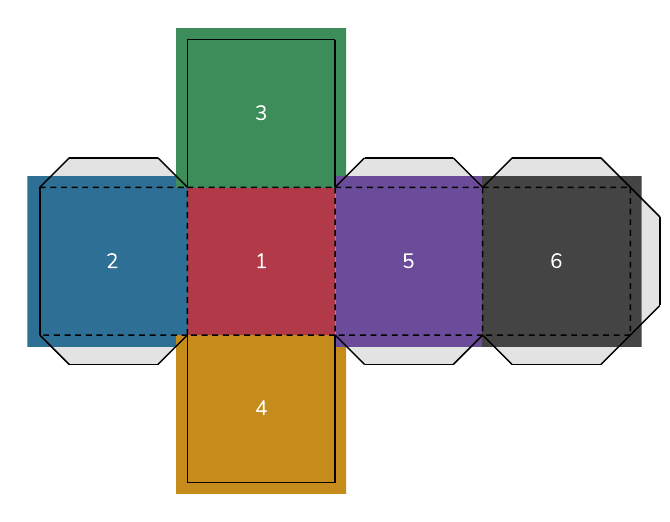
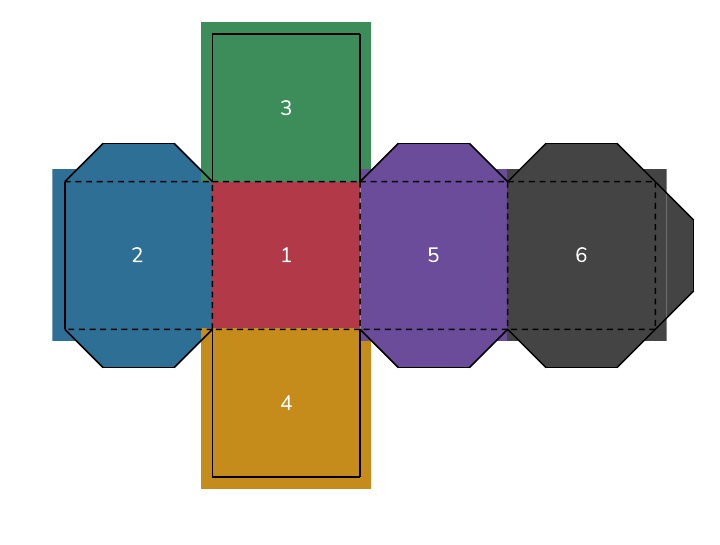
Dice to fold: tabs in the color of their face, deeper tabs, Tabs depth
Each glue tab shows its face mirrored across the fold, clipped to the tab
shape and slightly under the face so no white seam shows. Automatic depth
is a quarter of the side, 5 to 10 mm; the new Tabs field (tabDepth) sets
it up to 20 mm.

Claude-Session: https://claude.ai/code/session_01QmKvjz41fZGp884zhDuNAQ

diff --git a/src/shared/exportPlan.ts b/src/shared/exportPlan.ts
@@ -384,12 +384,21 @@ const NET_COLS = 4
 const NET_ROWS = 3
 /** Spazio minimo tra due sviluppi, in mm */
 const NET_GAP = 2
-/** Colore delle linguette */
+/** Colore sotto le linguette, dove la faccia è trasparente */
 export const NET_TAB_FILL = '#E3E3E3'
+/** Quanto la linguetta entra sotto la sua faccia, in mm */
+const NET_TAB_OVERLAP = 0.2
+/** Linguetta più grande che si può chiedere, in mm */
+export const NET_TAB_MAX = 20
 
-/** Profondità delle linguette di un dado con lato s, in mm */
-export function netTabDepth(s: number): number {
-  return Math.round(Math.min(8, Math.max(3, s * 0.2)) * 2) / 2
+/**
+ * Profondità delle linguette di un dado con lato s, in mm: quella chiesta (tab, tra 2 e
+ * NET_TAB_MAX), o un quarto del lato, tra 5 e 10 mm, perché anche un dado piccolo abbia
+ * linguette da tenere tra le dita
+ */
+export function netTabDepth(s: number, tab = 0): number {
+  if (tab > 0) return Math.min(NET_TAB_MAX, Math.max(2, tab))
+  return Math.round(Math.min(10, Math.max(5, s * 0.25)) * 2) / 2
 }
 
 /** Faccia vicina sul lato indicato, se c'è */
@@ -417,6 +426,8 @@ export interface DieNet {
   width: number
   height: number
   items: SceneItem[]
+  /** Le facce specchiate sulle linguette, ritagliate sulla loro forma: da disegnare per prime */
+  tabs: SceneItem[]
   shapes: SceneShape[]
   /** Contorno da tagliare */
   cut: SceneLine[]
@@ -426,11 +437,12 @@ export interface DieNet {
 
 /**
  * Lo sviluppo di un dado a sei facce, con l'angolo in alto a sinistra in (x, y). Con l'abbondanza
- * ogni faccia la tiene solo sui lati esterni, dove continua anche sotto le linguette
+ * ogni faccia la tiene solo sui lati esterni. Ogni linguetta prende il colore della faccia da cui
+ * parte: è la faccia specchiata sul lato della piega, quindi il colore continua oltre lo spigolo
  */
-export function dieNet(faces: Template[], bleed: boolean, x = 0, y = 0): DieNet {
+export function dieNet(faces: Template[], bleed: boolean, tab = 0, x = 0, y = 0): DieNet {
   const s = faces[0].width
-  const d = netTabDepth(s)
+  const d = netTabDepth(s, tab)
   const b = bleed ? Math.max(0, ...faces.map((t) => t.bleed)) : 0
   const pad = Math.max(d, b)
   const inset = Math.min(d, s * 0.3)
@@ -450,6 +462,7 @@ export function dieNet(faces: Template[], bleed: boolean, x = 0, y = 0): DieNet 
     }
   })
   const shapes: SceneShape[] = []
+  const tabs: SceneItem[] = []
   const cut: SceneLine[] = []
   const folds: SceneLine[] = []
   const line = (a: [number, number], z: [number, number], dash?: boolean): SceneLine => ({
@@ -477,7 +490,21 @@ export function dieNet(faces: Template[], bleed: boolean, x = 0, y = 0): DieNet 
       const t: [number, number] = [(q[0] - p[0]) / s, (q[1] - p[1]) / s]
       const p2: [number, number] = [p[0] + n[0] * d + t[0] * inset, p[1] + n[1] * d + t[1] * inset]
       const q2: [number, number] = [q[0] + n[0] * d - t[0] * inset, q[1] + n[1] * d - t[1] * inset]
-      shapes.push({ points: [p, q, q2, p2], fill: NET_TAB_FILL })
+      const points: [number, number][] = [p, q, q2, p2]
+      shapes.push({ points, fill: NET_TAB_FILL })
+      // la faccia specchiata entra un poco sotto la faccia vera: senza, lungo la piega resta
+      // una riga bianca sottile dove i due bordi sfumati si incontrano
+      const o = NET_TAB_OVERLAP
+      const under = (v: [number, number]): [number, number] => [v[0] - n[0] * o, v[1] - n[1] * o]
+      tabs.push({
+        x: fx + n[0] * (s - o),
+        y: fy + n[1] * (s - o),
+        template: faces[k],
+        side: 'front',
+        mode: 'cut',
+        flip: n[0] ? 'x' : 'y',
+        clip: [under(p), under(q), q2, p2]
+      })
       folds.push(line(p, q, true))
       cut.push(line(p, p2), line(p2, q2), line(q2, q))
     }
@@ -486,6 +513,7 @@ export function dieNet(faces: Template[], bleed: boolean, x = 0, y = 0): DieNet 
     width: NET_COLS * s + 2 * pad,
     height: NET_ROWS * s + 2 * pad,
     items,
+    tabs,
     shapes,
     cut,
     folds
@@ -498,7 +526,7 @@ export function netGrid(
   face: Template
 ): { cols: number; rows: number; fits: boolean; gap: number } {
   const page = pageSize(o)
-  const net = dieNet(Array(6).fill(face), o.bleed)
+  const net = dieNet(Array(6).fill(face), o.bleed, o.tabDepth)
   const gap = Math.max(NET_GAP, o.spacing)
   const fit = (avail: number, cell: number): number =>
     Math.floor((avail + gap + 1e-6) / (cell + gap))
@@ -528,7 +556,7 @@ function netPages(
     for (let n = 0; n < count; n++) dice.push(faces)
   }
   if (!dice.length || o.sides === 'back') return { pages: [], overflow: false, padded }
-  const probe = dieNet(dice[0], o.bleed)
+  const probe = dieNet(dice[0], o.bleed, o.tabDepth)
   const { cols, rows, fits, gap } = netGrid(o, dice[0][0])
   const x0 = (page.width - (cols * probe.width + (cols - 1) * gap)) / 2
   const y0 = (page.height - (rows * probe.height + (rows - 1) * gap)) / 2
@@ -541,6 +569,7 @@ function netPages(
         dieNet(
           faces,
           o.bleed,
+          o.tabDepth,
           x0 + (k % cols) * (probe.width + gap),
           y0 + Math.floor(k / cols) * (probe.height + gap)
         )
@@ -550,7 +579,7 @@ function netPages(
       page: {
         width: page.width,
         height: page.height,
-        items: nets.flatMap((n) => n.items),
+        items: nets.flatMap((n) => [...n.tabs, ...n.items]),
         shapes: nets.flatMap((n) => n.shapes),
         lines: marks ? nets.flatMap((n) => [...n.cut, ...n.folds]) : [],
         linesOver: true

diff --git a/src/shared/__tests__/exportPlan.test.ts b/src/shared/__tests__/exportPlan.test.ts
@@ -292,7 +292,11 @@ describe('casi limite', () => {
     it('croce di sei facce con le opposte che fanno 7, sette linguette e cinque pieghe interne', () => {
       const net = dieNet(Array(6).fill(face), false)
       const d = netTabDepth(20)
-      expect(d).toBe(4)
+      expect(d).toBe(5)
+      // un dado piccolo ha comunque linguette da 5 mm; si possono chiedere più grandi
+      expect(netTabDepth(12)).toBe(5)
+      expect(netTabDepth(12, 8)).toBe(8)
+      expect(netTabDepth(12, 50)).toBe(20)
       expect([net.width, net.height]).toEqual([80 + 2 * d, 60 + 2 * d])
       const at = net.items.map((it) => [(it.x - d) / 20, (it.y - d) / 20])
       // 1 al centro, 6 dall'altra parte della fila; 2 e 5 ai lati; 3 sopra e 4 sotto
@@ -305,6 +309,13 @@ describe('casi limite', () => {
         [3, 1]
       ])
       expect(net.shapes).toHaveLength(7)
+      // le linguette sono la faccia da cui partono, specchiata e ritagliata sulla loro forma
+      expect(net.tabs).toHaveLength(7)
+      expect(net.tabs[0]).toMatchObject({ x: d, flip: 'y', template: face })
+      expect(net.tabs[0].y).toBeCloseTo(d + 0.2)
+      expect(net.tabs[0].clip?.slice(2)).toEqual(net.shapes[0].points.slice(2))
+      const right = net.tabs.find((t) => t.flip === 'x')
+      expect([right?.x, right?.y]).toEqual([d + 80 - 0.2, d + 20])
       expect(net.folds.filter((l) => l.dash)).toHaveLength(5 + 7)
       // il contorno: 7 lati senza linguetta e 3 tratti per linguetta
       expect(net.cut).toHaveLength(7 + 7 * 3)
@@ -324,7 +335,7 @@ describe('casi limite', () => {
       const o = { ...DEFAULT_PDF, dice: 'net' as const, copies: true }
       const plan = planPdf(o, dice(cards), 'gioco')
       const page = plan.docs[0].pages[0]
-      expect(page.items).toHaveLength(12)
+      expect(page.items).toHaveLength(12 + 14)
       expect(page.shapes).toHaveLength(14)
       expect(page.lines.length).toBeGreaterThan(0)
       expect(page.linesOver).toBe(true)
@@ -341,13 +352,13 @@ describe('casi limite', () => {
       expect(odd.docs[0].pages[0].shapes).toBeUndefined()
       const short = planPdf(o, dice([die(1), die(2)]), 'g')
       expect(short.notes[0].key).toBe('export.ttsDicePadded')
-      expect(short.docs[0].pages[0].items).toHaveLength(6)
+      expect(short.docs[0].pages[0].items).toHaveLength(6 + 7)
     })
 
     it('PDF: con il fronte-retro ogni pagina di dadi ha una pagina vuota dietro', () => {
       const cards = Array.from({ length: 6 }, (_, i) => die(i + 1))
       const plan = planPdf({ ...DEFAULT_PDF, dice: 'net', duplex: 'long' }, dice(cards), 'g')
-      expect(plan.docs[0].pages.map((p) => p.items.length)).toEqual([6, 0])
+      expect(plan.docs[0].pages.map((p) => p.items.length)).toEqual([6 + 7, 0])
     })
 
     it('con le facce separate i dadi restano come prima', () => {

diff --git a/src/renderer/src/export/ExportDialog.tsx b/src/renderer/src/export/ExportDialog.tsx
@@ -1,7 +1,7 @@
 import { useEffect, useMemo, useState } from 'react'
 import NumInput from '../components/NumInput'
 import type { LoadedProject } from '../../../shared/project'
-import { netGrid } from '../../../shared/exportPlan'
+import { NET_TAB_MAX, netGrid, netTabDepth } from '../../../shared/exportPlan'
 import { kindOf } from '../../../shared/model/template'
 import { walkLayers } from '../../../shared/model/normalize'
 import {
@@ -183,6 +183,14 @@ export default function ExportDialog({
 
   /** Almeno un set scelto è fatto di facce di dado: si sceglie come stamparle */
   const hasDice = selected.some((name) => componentKind(name) === 'die')
+  /** La faccia del primo set di dadi scelto, per la misura delle linguette */
+  const dieFace = useMemo(() => {
+    const set = project.sets.find(
+      (s) => selected.includes(s.name) && componentKind(s.name) === 'die'
+    )
+    return project.templates.find((x) => x.name === set?.template) ?? null
+    // eslint-disable-next-line react-hooks/exhaustive-deps
+  }, [project, selected])
   const firstTemplate = useMemo(() => {
     const set = project.sets.find((s) => selected.includes(s.name))
     return project.templates.find((x) => x.name === set?.template) ?? null
@@ -574,6 +582,16 @@ export default function ExportDialog({
             }
           ]}
         />
+      )}
+      {hasDice && pdf.dice === 'net' && (
+        <Row
+          label={t('export.tabDepth')}
+          hint={t('export.tabDepthHint', {
+            v: len(netTabDepth(dieFace?.width ?? 20, pdf.tabDepth))
+          })}
+        >
+          {mm(pdf.tabDepth, (tabDepth) => patch({ tabDepth: Math.min(NET_TAB_MAX, tabDepth) }))}
+        </Row>
       )}
       <Section
         id="pdf-layout"

diff --git a/src/renderer/src/render/SceneView.tsx b/src/renderer/src/render/SceneView.tsx
@@ -97,6 +97,27 @@ export default function ScenePageView({
               guides={false}
             />
           )
+          if (it.clip) {
+            // una linguetta: la faccia specchiata, solo dentro la sua forma
+            const pts = it.clip
+              .map(([x, y]) => `${(x - c.x) * s.scale}px ${(y - c.y) * s.scale}px`)
+              .join(', ')
+            const flip = it.flip === 'x' ? 'scaleX(-1)' : it.flip === 'y' ? 'scaleY(-1)' : undefined
+            return (
+              <div key={i} style={{ position: 'absolute', inset: 0, clipPath: `polygon(${pts})` }}>
+                <div
+                  style={{
+                    position: 'absolute',
+                    left: (it.x - c.x) * s.scale,
+                    top: (it.y - c.y) * s.scale,
+                    transform: flip
+                  }}
+                >
+                  {card}
+                </div>
+              </div>
+            )
+          }
           const crop = it.crop
           const ct = crop?.t ?? 0
           const cb = crop?.b ?? 0

diff --git a/src/shared/export.ts b/src/shared/export.ts
@@ -82,6 +82,8 @@ export interface PdfOptions extends CommonOptions {
    * ritagliare, piegare e incollare, con le linguette (net)
    */
   dice: DiceLayout
+  /** Profondità delle linguette dei dadi da piegare, in mm; 0 la sceglie dal lato del dado */
+  tabDepth: number
 }
 
 export type DiceLayout = 'faces' | 'net'
@@ -219,7 +221,8 @@ export const DEFAULT_PDF: PdfOptions = {
   proof: false,
   cmyk: false,
   continuous: false,
-  dice: 'faces'
+  dice: 'faces',
+  tabDepth: 0
 }
 
 export const DEFAULT_TTS: TtsOptions = {
@@ -315,6 +318,10 @@ export interface SceneItem {
   crop?: { l: number; r: number; t?: number; b?: number }
   /** Ingrandimento della carta: minore di 1 nei fogli di prova */
   zoom?: number
+  /** Carta specchiata: x scambia destra e sinistra, y alto e basso (le linguette dei dadi) */
+  flip?: 'x' | 'y'
+  /** Solo la parte dentro questo poligono, in mm sulla pagina */
+  clip?: [number, number][]
 }
 
 export interface SceneLine {

diff --git a/src/renderer/src/i18n/it.ts b/src/renderer/src/i18n/it.ts
@@ -1456,6 +1456,8 @@ export const it: Record<MessageKey, string> = {
   'export.diceNet': 'Da piegare',
   'export.diceNetNote':
     'Il cubo aperto con le linguette da incollare. Linee di taglio e pieghe solo con i segni di taglio.',
+  'export.tabDepth': 'Linguette',
+  'export.tabDepthHint': 'Profondità delle linguette; 0 la sceglie dal lato del dado. Adesso: {v}.',
   'export.dieNotSquare':
     'Set «{set}»: le facce non sono quadrate, quindi i dadi escono come facce separate.',
   'export.markColor': 'Colore dei segni di taglio',

diff --git a/src/renderer/src/i18n/en.ts b/src/renderer/src/i18n/en.ts
@@ -1430,6 +1430,8 @@ export const en = {
   'export.diceNet': 'To fold',
   'export.diceNetNote':
     'The unfolded cube with tabs to glue. Cut and fold lines only with crop marks.',
+  'export.tabDepth': 'Tabs',
+  'export.tabDepthHint': 'Depth of the glue tabs; 0 picks it from the size of the die. Now: {v}.',
   'export.dieNotSquare':
     'Set “{set}”: the faces are not square, so the dice come out as separate faces.',
   'export.markColor': 'Color of the crop marks',

diff --git a/skill/stella/SKILL.md b/skill/stella/SKILL.md
@@ -107,7 +107,7 @@ Older projects have `naibi.json` or `gamecreator.json` instead of `stella.json`;
 - `sets[].sheet` is optional (default: the set's name). Several sets may name the same sheet: they share its rows and each draws them with its own template; `rename-set` then keeps the sheet's name. `sets[].hiddenColumns` (columns hidden in the app's table) and `sets[].showComputed` (also show fixed and formula layers, read only) and `sets[].pinnedProperties` (`layer.property` columns pinned in the card form) and `sets[].colors` (table colors: `{ "columns": [{ "column": "faction", "colors": { "Red": "#fbe0e0" } }], "wholeRow": true }`; number keys are `=n` or bands `b0`-`b2`) are view preferences only; they never change the cards. A set's template is `templates/<template>.json`.
 - `styles`: name → markup attributes. `heading1`, `heading2` and `note` always exist and can be redefined.
 - `variables`: `image` (`src` file name; optional `tint`, `scale` (height relative to the line, 1 = normal), `raise` (% of the line), `rotate` (degrees), `flip` (`h`, `v`, `hv`), `opacity` 0-1, `bg` (a background behind the image everywhere the variable is used: `circle`, `square`, `rounded`, `hexagon`, `diamond`, a file or another image variable), `bgColor`, `bgPad` (space around the image, fraction of the side, default 0.18); e.g. `"water": { "type": "image", "src": "drop", "tint": "white", "bg": "circle", "bgColor": "#C0392B" }` is a white drop in a red circle), `text` (markup that replaces `{name}`), `color` (usable by name in every colour property, which also accepts `{field}` to take a card field such as a value layer; redefining a CSS colour name such as `red` changes it everywhere), `value` (constant text or number, also usable in formulas).
-- `export` holds the options of the last export of each kind the named profiles (`export.named`) and the kind of the last export (`export.last`, used by Repeat the last export), written by the app; `order` holds the sidebar order. Leave existing ones alone unless asked; when the user asks for an export and the project has no fitting profile (`info` lists them), add one to `export.named` and run it with `export --profile`. A profile is `{ "name": "Print", "kind": "pdf" | "images" | "tts", "options": { ... } }`; options left out take the app's defaults, so `{}` is a valid start. Useful options: all kinds `sets` (set names, empty = all), `copies` (true = repeat cards by `amount`; default true for PDF and TTS, false for images); PDF `page` (`A4`, `A3`, `Letter`), `landscape`, `margin` (mm, 10), `bleed` (false), `marks` (`corners`, `lines`, `none`), `sides` (`front`, `back`, `both`), `duplex` (`none`, `long`, `short`: backs on alternate pages, mirrored), `split` (`single`, `set`, `side`), `dice` (`faces` or `net`: die sets as a foldable cross with glue tabs, square faces only; cut and fold lines only with `marks`); images `format` (`png`, `jpg`, `webp`, `svg`), `dpi` (300), `bleed`, `sides`, `pattern` (file names, `%set/%n`); TTS `destination` (`project` = `export/tts/`, `tts` = Tabletop Simulator's Saved Objects folder, `both`, the default), `objects` (below). PDF and image files go to `export/` unless `folder` is set. In Tabletop Simulator options (`export.tts` or a named profile of kind `tts`), `objects` maps a set name to what it becomes: `{ "type": "card" | "token" | "standee" | "tile" | "board" | "die", "thickness": 2, "edgeColor": "#FFFFFF", "tags": "enemy, card" }` (`tags`: Tabletop Simulator tags of the set's components, `{field}` allowed, replacing the template's `ttsTags`; leave it out to use the template's; thickness in mm, default 2, 10 for standees; edge color for tiles and boards; `die` makes one six-sided die from every six cards, card 1 on face 1, and wants a square template); a set not listed takes the `kind` of its template (no `kind`: a deck of cards).
+- `export` holds the options of the last export of each kind the named profiles (`export.named`) and the kind of the last export (`export.last`, used by Repeat the last export), written by the app; `order` holds the sidebar order. Leave existing ones alone unless asked; when the user asks for an export and the project has no fitting profile (`info` lists them), add one to `export.named` and run it with `export --profile`. A profile is `{ "name": "Print", "kind": "pdf" | "images" | "tts", "options": { ... } }`; options left out take the app's defaults, so `{}` is a valid start. Useful options: all kinds `sets` (set names, empty = all), `copies` (true = repeat cards by `amount`; default true for PDF and TTS, false for images); PDF `page` (`A4`, `A3`, `Letter`), `landscape`, `margin` (mm, 10), `bleed` (false), `marks` (`corners`, `lines`, `none`), `sides` (`front`, `back`, `both`), `duplex` (`none`, `long`, `short`: backs on alternate pages, mirrored), `split` (`single`, `set`, `side`), `dice` (`faces` or `net`: die sets as a foldable cross with glue tabs, square faces only; cut and fold lines only with `marks`; `tabDepth` mm, 0 = automatic); images `format` (`png`, `jpg`, `webp`, `svg`), `dpi` (300), `bleed`, `sides`, `pattern` (file names, `%set/%n`); TTS `destination` (`project` = `export/tts/`, `tts` = Tabletop Simulator's Saved Objects folder, `both`, the default), `objects` (below). PDF and image files go to `export/` unless `folder` is set. In Tabletop Simulator options (`export.tts` or a named profile of kind `tts`), `objects` maps a set name to what it becomes: `{ "type": "card" | "token" | "standee" | "tile" | "board" | "die", "thickness": 2, "edgeColor": "#FFFFFF", "tags": "enemy, card" }` (`tags`: Tabletop Simulator tags of the set's components, `{field}` allowed, replacing the template's `ttsTags`; leave it out to use the template's; thickness in mm, default 2, 10 for standees; edge color for tiles and boards; `die` makes one six-sided die from every six cards, card 1 on face 1, and wants a square template); a set not listed takes the `kind` of its template (no `kind`: a deck of cards).
 
 ## Data sheets
 

diff --git a/docs/guida/README.md b/docs/guida/README.md
@@ -753,7 +753,7 @@ Il PDF è vettoriale, con i font incorporati. Tra le scelte che contano ci sono 
 - **Rotazione**: ruota le carte se altrimenti non entrano o ne entrano di più.
 - **Poster**: divide su più pagine le carte più grandi della pagina, con una sovrapposizione.
 - **Piegatura**: fronte e retro affiancati, da piegare.
-- **Dadi**: compare quando si esporta un set di facce di dado. **Facce** le mette una accanto all'altra come le carte; **Da piegare** stampa ogni dado aperto a croce, da ritagliare, piegare e incollare. Ogni sei righe del set fanno un dado, nell'ordine del foglio: la faccia 1 al centro, la 6 in fondo alla fila, la 2 e la 5 ai lati, la 3 sopra e la 4 sotto, così le facce opposte fanno 7. Le linguette grigie stanno sui sette lati da incollare; le facce 3 e 4 non ne hanno e chiudono il dado. Il dado è grande quanto il template (una faccia di 20 mm fa un dado di 20 mm), e la faccia deve essere quadrata. Le linee di taglio e le pieghe tratteggiate ci sono solo con i segni di taglio, nel loro colore e spessore. Con l'abbondanza ogni faccia la tiene sui lati esterni, dove il colore continua anche sotto le linguette. Gli sviluppi non si ruotano: con dadi grandi una pagina orizzontale ne contiene di più.
+- **Dadi**: compare quando si esporta un set di facce di dado. **Facce** le mette una accanto all'altra come le carte; **Da piegare** stampa ogni dado aperto a croce, da ritagliare, piegare e incollare. Ogni sei righe del set fanno un dado, nell'ordine del foglio: la faccia 1 al centro, la 6 in fondo alla fila, la 2 e la 5 ai lati, la 3 sopra e la 4 sotto, così le facce opposte fanno 7. Le linguette stanno sui sette lati da incollare, ognuna del colore della faccia da cui parte (è la faccia vista allo specchio, quindi il colore continua oltre la piega); le facce 3 e 4 non ne hanno e chiudono il dado. Le linguette sono profonde un quarto del lato, tra 5 e 10 mm, così anche un dado piccolo si incolla con le dita; **Linguette** ne sceglie un'altra misura, fino a 20 mm (0 torna a quella automatica). Il dado è grande quanto il template (una faccia di 20 mm fa un dado di 20 mm), e la faccia deve essere quadrata. Le linee di taglio e le pieghe tratteggiate ci sono solo con i segni di taglio, nel loro colore e spessore. Senza segni di taglio la piega tra una faccia e la sua linguetta non si vede: si piega lungo il lato del quadrato. Con l'abbondanza ogni faccia la tiene sui lati esterni. Gli sviluppi non si ruotano: con dadi grandi una pagina orizzontale ne contiene di più.
 - **Segni di taglio**: agli angoli o a linee intere, con lunghezza, spessore e colore.
 - **Fronte-retro**: retri su pagine alternate, girando il foglio sul lato lungo o corto, con una correzione dello spostamento per le stampanti che non allineano i due lati. Per trovare la correzione giusta stampa prima una pagina sola, misura di quanto il retro è spostato rispetto al fronte guardando il foglio controluce e scrivi quel valore in **Spostamento retri**; poi stampa tutto. Il **Foglio di prova** serve a controllare le carte in piccolo prima di consumare carta.
 - **Pagine**: con **Uno dopo l'altro sulla stessa pagina** un set comincia subito dopo il precedente invece che su una pagina nuova (10 + 8 carte con 9 per pagina stanno in 2 pagine invece di 3). Un set con carte di un'altra misura comincia su una riga nuova, se nella pagina c'è posto. Le carte partono dall'alto della pagina, anche quando non la riempiono, così il taglio comincia sempre dallo stesso bordo.

diff --git a/docs/specifica.md b/docs/specifica.md
@@ -444,7 +444,7 @@ Il poster vale con la disposizione automatica: una carta che non entra nella pag
 
 Con la piegatura ogni carta occupa una cella larga il doppio, con il fronte a sinistra e il retro a destra, entrambi dritti: piegando lungo i trattini (sopra e sotto la coppia) il retro finisce dietro il fronte. Con l'abbondanza la coppia la ha solo all'esterno; senza, le carte sono rettangoli di taglio. Fronte-retro, scelta dei lati, rotazione e poster non valgono.
 
-Con **Dadi: Da piegare** (`dice: "net"`) i set il cui template è una faccia di dado escono come sviluppi a croce: ogni sei carte un dado (le ultime ripetono le prime se non sono un multiplo di sei), con le copie della prima carta del gruppo, come in Tabletop Simulator. Faccia 1 al centro, 2 a sinistra, 5 e 6 a destra, 3 sopra e 4 sotto. Sette linguette grigie a trapezio (profonde un quinto del lato, tra 3 e 8 mm) stanno sui lati sopra e sotto delle facce 2, 5 e 6 e a destra della 6. Con i segni di taglio (di qualsiasi tipo) il contorno è una linea continua e le pieghe tratteggiate, sempre sopra le facce; senza, nessuna linea. Con l'abbondanza ogni faccia la tiene sui lati esterni. Gli sviluppi si centrano nella pagina con almeno 2 mm (o la spaziatura) tra l'uno e l'altro, non si ruotano, non si uniscono ad altri set e non hanno retro: con il fronte-retro ogni pagina è seguita da una pagina vuota. Una faccia non quadrata torna alle facce affiancate, con un avviso.
+Con **Dadi: Da piegare** (`dice: "net"`) i set il cui template è una faccia di dado escono come sviluppi a croce: ogni sei carte un dado (le ultime ripetono le prime se non sono un multiplo di sei), con le copie della prima carta del gruppo, come in Tabletop Simulator. Faccia 1 al centro, 2 a sinistra, 5 e 6 a destra, 3 sopra e 4 sotto. Sette linguette a trapezio (profonde un quarto del lato, tra 5 e 10 mm, o `tabDepth` mm fino a 20) con la faccia da cui partono specchiata sul lato della piega, sopra un fondo grigio per le facce trasparenti, stanno sui lati sopra e sotto delle facce 2, 5 e 6 e a destra della 6. Con i segni di taglio (di qualsiasi tipo) il contorno è una linea continua e le pieghe tratteggiate, sempre sopra le facce; senza, nessuna linea. Con l'abbondanza ogni faccia la tiene sui lati esterni. Gli sviluppi si centrano nella pagina con almeno 2 mm (o la spaziatura) tra l'uno e l'altro, non si ruotano, non si uniscono ad altri set e non hanno retro: con il fronte-retro ogni pagina è seguita da una pagina vuota. Una faccia non quadrata torna alle facce affiancate, con un avviso.
 
 Con **Uno dopo l'altro sulla stessa pagina** (`continuous`) i set vicini nel PDF non cominciano su una pagina nuova. Set con la stessa griglia (stessa misura della carta, stessa rotazione) diventano una sola sequenza di carte: 10 + 8 carte con 9 per pagina stanno in 2 pagine invece di 3. Un set con un'altra griglia comincia su una riga nuova sotto il precedente, se nella pagina c'è posto in altezza; ogni set tiene le sue colonne, la sua rotazione e la sua centratura orizzontale, le righe della pagina si centrano in verticale e tra un set e l'altro resta lo spazio dei segni di taglio. Con i segni a linee intere le linee verticali restano all'altezza del loro set, perché non attraversino gli altri: si taglia prima tra un set e l'altro. I set divisi a poster restano su pagine loro; nella piegatura si uniscono solo set con la stessa griglia. Con un file per set l'opzione non vale.
 

diff --git a/docs/guide/README.md b/docs/guide/README.md
@@ -753,7 +753,7 @@ The PDF is vector, with embedded fonts. The choices that matter are the paper (p
 - **Rotation**: rotates cards when they would not fit otherwise or more of them fit.
 - **Poster**: splits cards larger than the page over several pages, with an overlap.
 - **Fold**: front and back side by side, to fold.
-- **Dice**: shows up when you export a set of die faces. **Faces** places them side by side like cards; **To fold** prints each die opened out as a cross, to cut, fold and glue. Every six rows of the set make one die, in sheet order: face 1 in the middle, 6 at the end of the row, 2 and 5 on the sides, 3 above and 4 below, so opposite faces add up to 7. The grey tabs sit on the seven edges to glue; faces 3 and 4 have none and close the die. The die is as large as the template (a 20 mm face makes a 20 mm die), and the face must be square. Cut lines and dashed fold lines are there only with crop marks, in their color and width. With bleed each face keeps it on its outer edges, where the color also runs under the tabs. The nets are not rotated: with large dice a landscape page holds more of them.
+- **Dice**: shows up when you export a set of die faces. **Faces** places them side by side like cards; **To fold** prints each die opened out as a cross, to cut, fold and glue. Every six rows of the set make one die, in sheet order: face 1 in the middle, 6 at the end of the row, 2 and 5 on the sides, 3 above and 4 below, so opposite faces add up to 7. The tabs sit on the seven edges to glue, each in the color of the face it starts from (it is that face seen in a mirror, so the color runs past the fold); faces 3 and 4 have none and close the die. The tabs are a quarter of the side deep, between 5 and 10 mm, so even a small die can be glued with your fingers; **Tabs** sets another depth, up to 20 mm (0 goes back to the automatic one). The die is as large as the template (a 20 mm face makes a 20 mm die), and the face must be square. Cut lines and dashed fold lines are there only with crop marks, in their color and width. Without crop marks the fold between a face and its tab does not show: fold along the side of the square. With bleed each face keeps it on its outer edges. The nets are not rotated: with large dice a landscape page holds more of them.
 - **Crop marks**: at the corners or as full lines, with length, width and color.
 - **Duplex**: backs on alternate pages, flipping on the long or short edge, with an offset for printers that do not align the two sides. To find the right offset, print a single page first, hold the sheet against the light to measure how far the back is shifted from the front, and type that value in **Back offset**; then print everything. The **Proof sheet** lets you check all the cards small before using up paper.
 - **Pages**: with **One after another on the same page** a set starts right after the previous one instead of on a new page (10 + 8 cards with 9 per page fit on 2 pages instead of 3). A set with cards of another size starts on a new row, if there is room on the page. The cards start from the top of the page, even when they do not fill it, so cutting always starts from the same edge.

diff --git a/CHANGELOG.md b/CHANGELOG.md
@@ -9,11 +9,11 @@ nella lingua dell'interfaccia quando segnala un aggiornamento. Le versioni con u
 
 ### English
 
-- **Dice to fold**: the PDF export has a new **Dice** choice for sets of die faces. **To fold** prints each six-sided die as a cross to cut out, fold and glue, with grey tabs on the seven edges to glue and opposite faces adding up to 7. The die is as large as the face of the template. Cut and dashed fold lines appear only with crop marks, in their color; with bleed the color of each face runs past its outer edges and under the tabs.
+- **Dice to fold**: the PDF export has a new **Dice** choice for sets of die faces. **To fold** prints each six-sided die as a cross to cut out, fold and glue, with tabs on the seven edges to glue and opposite faces adding up to 7. Each tab takes the color of the face it starts from, so no white shows along the edges of the die. The tabs are at least 5 mm deep, also on small dice, and **Tabs** sets another depth. The die is as large as the face of the template. Cut and dashed fold lines appear only with crop marks, in their color; with bleed the color of each face also runs past its outer edges.
 
 ### Italiano
 
-- **Dadi da piegare**: l'esportazione in PDF ha una scelta nuova, **Dadi**, per i set di facce di dado. **Da piegare** stampa ogni dado a sei facce come una croce da ritagliare, piegare e incollare, con le linguette grigie sui sette lati da incollare e le facce opposte che fanno 7. Il dado è grande quanto la faccia del template. Le linee di taglio e le pieghe tratteggiate compaiono solo con i segni di taglio, nel loro colore; con l'abbondanza il colore di ogni faccia continua oltre i lati esterni e sotto le linguette.
+- **Dadi da piegare**: l'esportazione in PDF ha una scelta nuova, **Dadi**, per i set di facce di dado. **Da piegare** stampa ogni dado a sei facce come una croce da ritagliare, piegare e incollare, con le linguette sui sette lati da incollare e le facce opposte che fanno 7. Ogni linguetta prende il colore della faccia da cui parte, così lungo gli spigoli del dado non si vede il bianco. Le linguette sono profonde almeno 5 mm, anche sui dadi piccoli, e **Linguette** ne sceglie un'altra misura. Il dado è grande quanto la faccia del template. Le linee di taglio e le pieghe tratteggiate compaiono solo con i segni di taglio, nel loro colore; con l'abbondanza il colore di ogni faccia continua anche oltre i lati esterni.
 
 ## 1.9.0-beta.9
 
